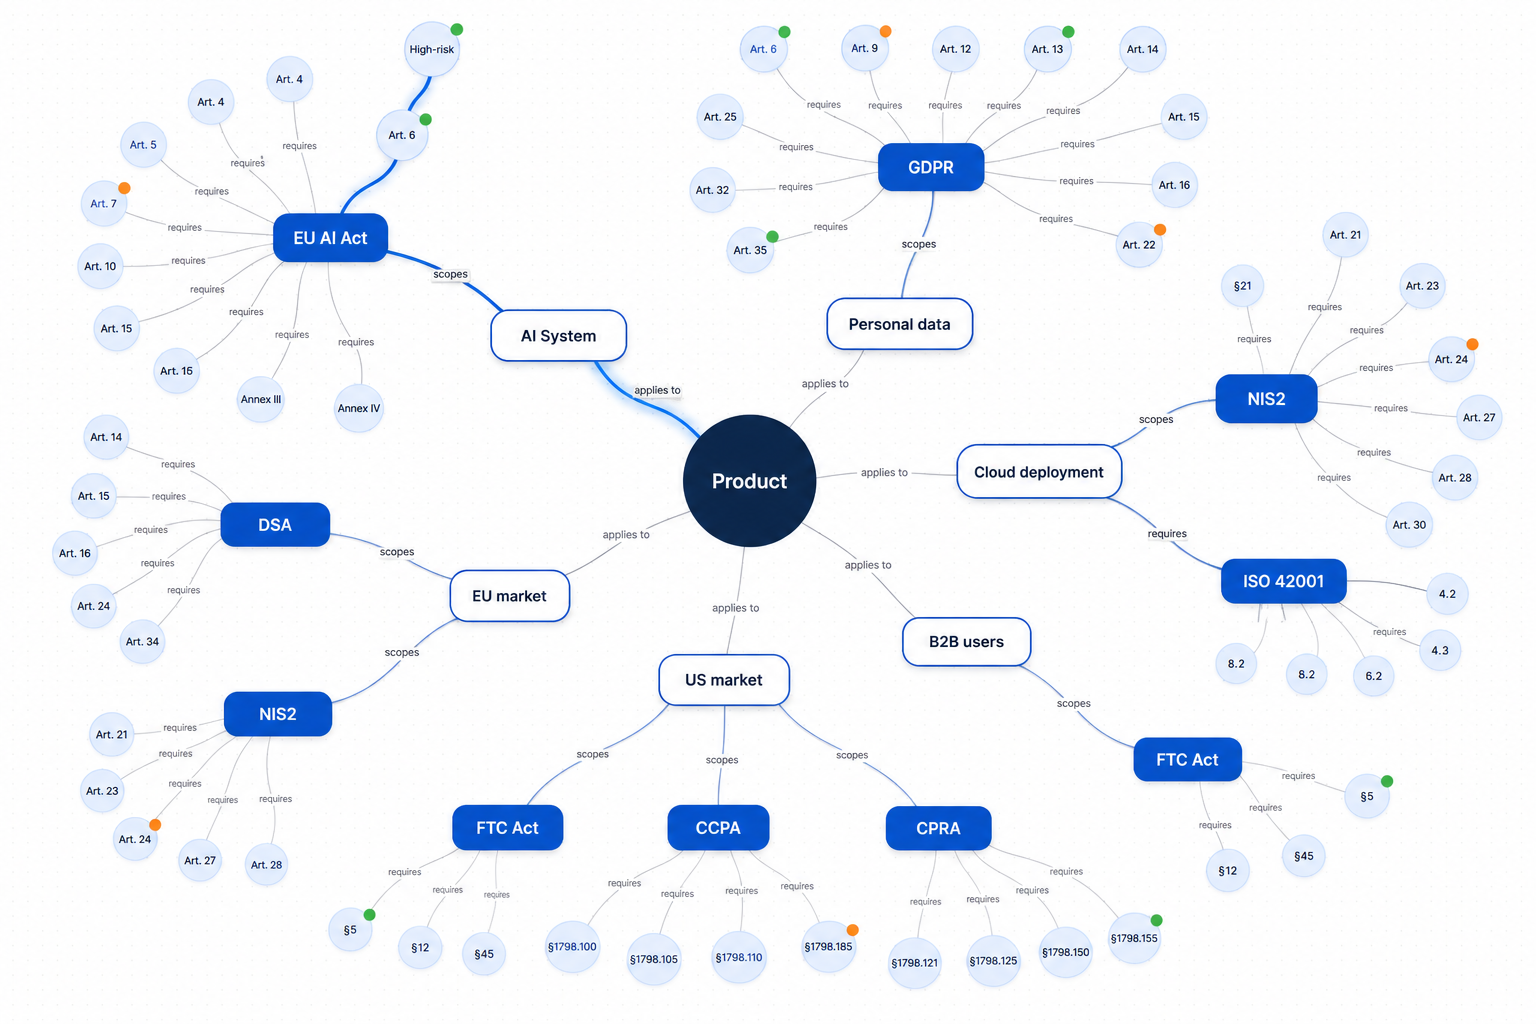
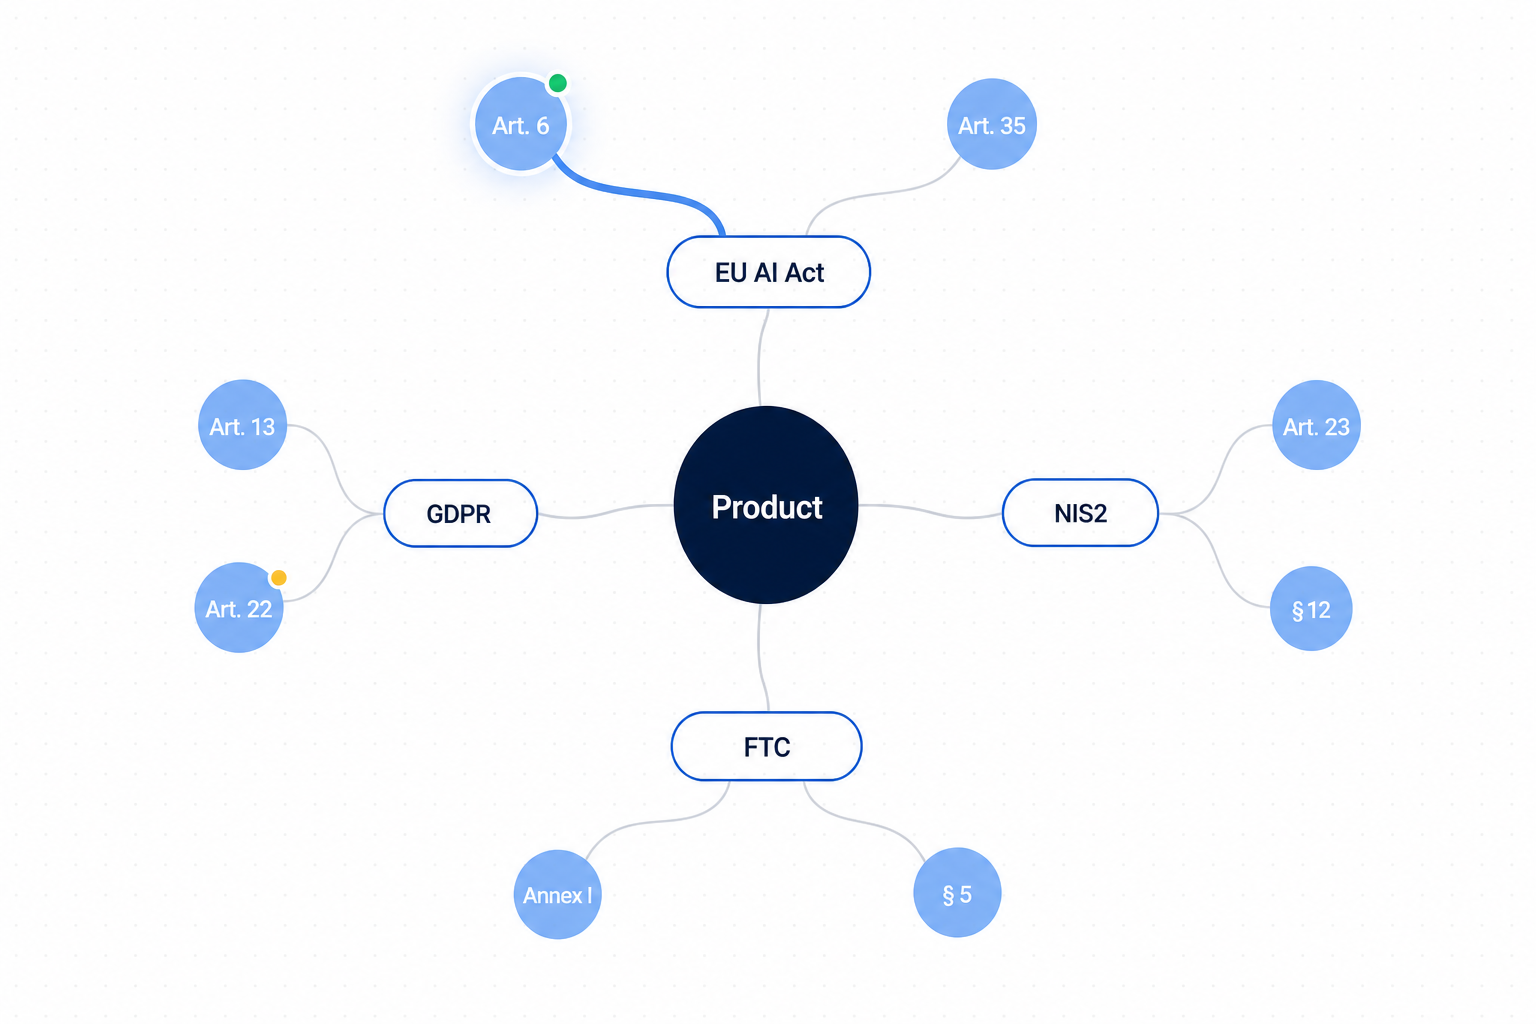
Add ComplianceTwin tagline header and simplify feature plates.
Introduce a section header explaining the product before features, simplify per-feature copy, swap CTA wording to "Book demo", and replace feature images with cleaner, less-dense plates that fit the 16:9 frame.

diff --git a/app/page.tsx b/app/page.tsx
@@ -21,7 +21,7 @@ export default function Home() {
                   target="_blank"
                   rel="noreferrer"
                 >
-                  Book 15min demo
+                  Book demo
                 </a>
               </div>
             </div>
@@ -29,6 +29,16 @@ export default function Home() {
         </section>
 
         <section aria-label="Features" className="mt-24 md:mt-28">
+          <div className="mb-12 max-w-3xl md:mb-16">
+            <h2 className="text-balance text-3xl font-semibold tracking-tight md:text-5xl">
+              ComplianceTwin is a live compliance graph for AI and tech
+              products.
+            </h2>
+            <p className="mt-4 text-base leading-7 text-black/65 md:text-lg md:leading-8">
+              Map EU and US regulations to your product, monitor what changes,
+              and turn obligations into evidence — in one connected record.
+            </p>
+          </div>
           <div className="flex flex-col gap-14">
             <div className="flex flex-col gap-6 md:flex-row md:items-start md:gap-10">
               <img
@@ -41,8 +51,7 @@ export default function Home() {
                   Instant applicability analysis
                 </div>
                 <p className="mt-3 text-base leading-7 text-black/65 md:text-lg md:leading-8">
-                  Upload your product specifications and get instant record on
-                  what EU and US technology laws apply to your product.
+                  See which EU and US laws apply to your product — instantly.
                 </p>
               </div>
             </div>
@@ -58,9 +67,8 @@ export default function Home() {
                   Live monitoring record
                 </div>
                 <p className="mt-3 text-base leading-7 text-black/65 md:text-lg md:leading-8">
-                  Keep a live record for monitoring regulatory updates with the
-                  help of a structured legal database connected to logic
-                  representations of EU–US regulations and supporting evidence.
+                  Track regulatory updates and see exactly what changed for
+                  your product.
                 </p>
                 <div className="mt-3 text-xs font-semibold text-black/55">
                   Case study: EU AI Act + Omnibus
@@ -79,9 +87,7 @@ export default function Home() {
                   Actionable workflows
                 </div>
                 <p className="mt-3 text-base leading-7 text-black/65 md:text-lg md:leading-8">
-                  Turn the record into actionable workflows for obligation
-                  mapping and evidence gathering to support your product
-                  compliance.
+                  Turn obligations into clear tasks and audit-ready evidence.
                 </p>
               </div>
             </div>

diff --git a/app/components/SiteFooter.tsx b/app/components/SiteFooter.tsx
@@ -49,7 +49,7 @@ export function SiteFooter() {
               target="_blank"
               rel="noreferrer"
             >
-              Book 15min demo
+              Book demo
             </a>
           </div>
         </div>